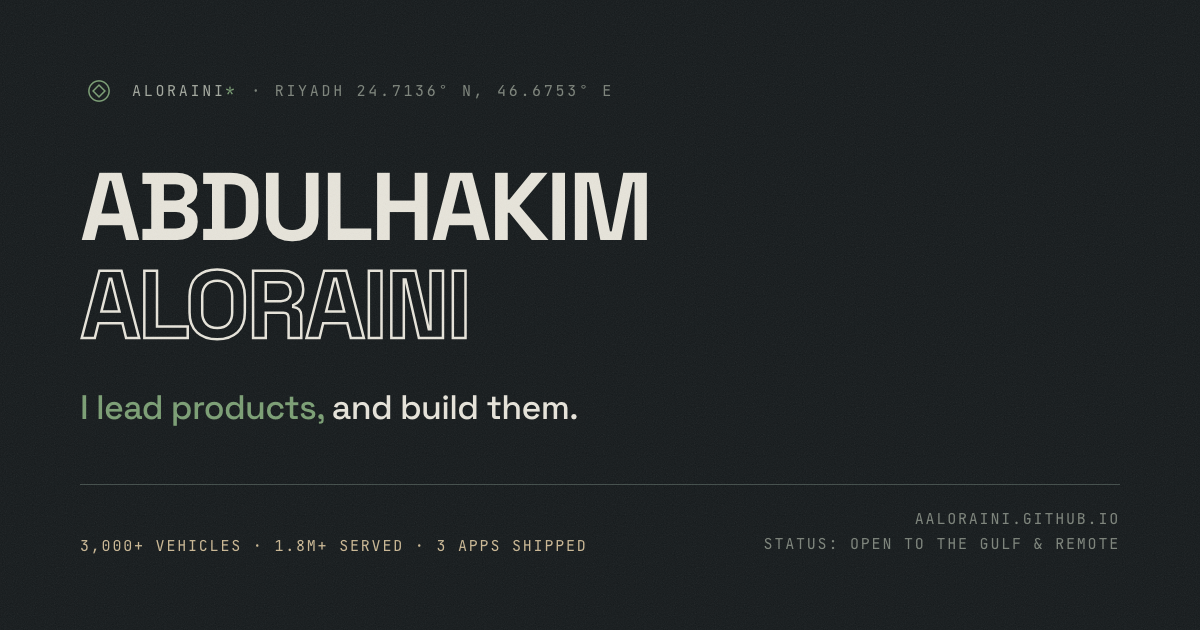
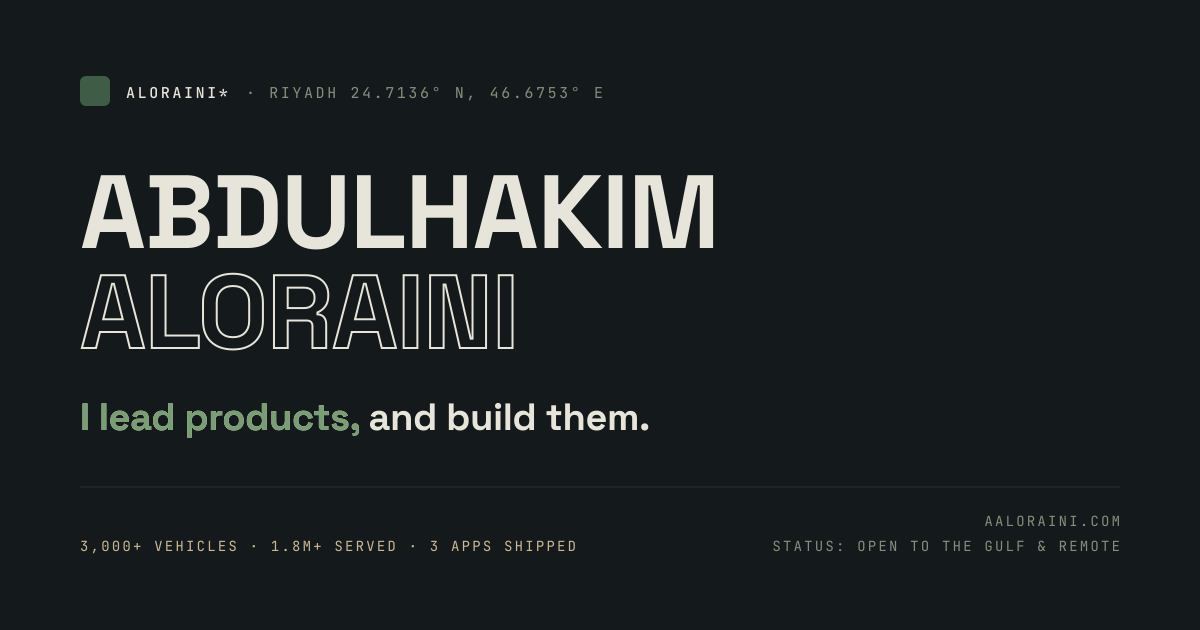
build(og): regenerate the OG card and script its generation
The card still carried the compass mark and read
AALORAINI.GITHUB.IO. It had gone stale precisely because it was an
opaque committed binary with no way to rebuild it, so this adds the
generator alongside the new image: npm run og.

Getting real type into it is not obvious, and all three ways of
getting it wrong fail the same silent way -- a clean PNG in the wrong
typeface, no error:

  - sharp rasterises through librsvg and pango, which match a font by
    family plus the OS/2 weight and cannot set a variable axis, so the
    site's variable woff2 have to be instanced to static TTFs.
  - Space Grotesk's variable default instance is Light, so its name
    table reports the family as "Space Grotesk Light" and a request
    for "Space Grotesk" matches nothing.
  - FONTCONFIG_FILE has to be in the environment before the process
    starts; assigning process.env is too late, because libvips reads
    it through a C runtime that copied the environment at startup.

generate.mjs therefore re-execs itself once with the variable set, and
asserts the display family really loaded by measuring I against M
before it renders. README.md in that folder writes all of this down.

Font preparation runs through uv, so fonttools is fetched on demand
and the repo gains no Python dependency. The generated TTFs are
gitignored.

diff --git a/scripts/og/prepare-fonts.py b/scripts/og/prepare-fonts.py
@@ -1,0 +1,104 @@
+"""Build static TTFs for the OG card renderer.
+
+The site loads Space Grotesk and JetBrains Mono as *variable* woff2 via
+Fontsource. The renderer in generate.mjs goes through sharp -> librsvg ->
+pango, which can only match a font by family name plus the weight recorded
+in OS/2 -- it cannot set a variable axis. Two things therefore have to
+happen before a glyph can be drawn:
+
+  1. Instance each variable font down to a single static weight.
+  2. Fix the name table. Space Grotesk's variable default instance is Light,
+     so its nameID 1 reads "Space Grotesk Light"; a request for the family
+     "Space Grotesk" silently matches nothing and the text falls back to
+     another font. This is quiet -- you get a rendered image with the wrong
+     typeface rather than an error -- so it is worth knowing about.
+
+Because two static weights of JetBrains Mono would otherwise collide on one
+family name, Medium is given its own family.
+
+Output lands in .fonts/ next to this file, which is gitignored: it is
+derived from node_modules and is rebuilt on demand.
+
+Run via scripts/og/README.md -- needs uv, no project dependency.
+"""
+
+from pathlib import Path
+
+from fontTools.ttLib import TTFont
+
+HERE = Path(__file__).parent
+REPO = HERE.parent.parent
+MODULES = REPO / "node_modules" / "@fontsource-variable"
+OUT = HERE / ".fonts"
+
+# source woff2 -> (output stem, family, style, wght axis / OS2 weight)
+JOBS = [
+    (
+        MODULES / "space-grotesk/files/space-grotesk-latin-wght-normal.woff2",
+        "SpaceGrotesk-Bold",
+        "Space Grotesk",
+        "Bold",
+        700,
+    ),
+    (
+        MODULES / "jetbrains-mono/files/jetbrains-mono-latin-wght-normal.woff2",
+        "JetBrainsMono-Regular",
+        "JetBrains Mono",
+        "Regular",
+        400,
+    ),
+    (
+        MODULES / "jetbrains-mono/files/jetbrains-mono-latin-wght-normal.woff2",
+        "JetBrainsMono-Medium",
+        "JetBrains Mono Medium",
+        "Regular",
+        500,
+    ),
+]
+
+
+def main() -> None:
+    missing = [str(src) for src, *_ in JOBS if not src.exists()]
+    if missing:
+        raise SystemExit(
+            "Fontsource files not found -- run `npm install` first:\n  "
+            + "\n  ".join(sorted(set(missing)))
+        )
+
+    OUT.mkdir(exist_ok=True)
+
+    for src, stem, family, style, weight in JOBS:
+        # fontTools reads woff2 directly when brotli is available, but it
+        # also remembers the flavor and would write woff2 straight back out
+        # under a .ttf name. fontconfig cannot read that, and the failure is
+        # silent -- every glyph quietly falls back. Clear the flavor so save()
+        # emits a real TTF.
+        font = TTFont(src)
+        font.flavor = None
+
+        from fontTools.varLib import instancer
+
+        instancer.instantiateVariableFont(font, {"wght": weight}, inplace=True)
+
+        name = font["name"]
+        full = family if style == "Regular" else f"{family} {style}"
+        postscript = full.replace(" ", "")
+
+        # Drop typographic names (16/17) so nothing overrides 1/2.
+        name.names = [r for r in name.names if r.nameID not in (16, 17)]
+        for plat_id, enc_id, lang_id in ((3, 1, 0x409), (1, 0, 0)):
+            name.setName(family, 1, plat_id, enc_id, lang_id)
+            name.setName(style, 2, plat_id, enc_id, lang_id)
+            name.setName(full, 4, plat_id, enc_id, lang_id)
+            name.setName(postscript, 6, plat_id, enc_id, lang_id)
+
+        font["OS/2"].usWeightClass = weight
+        font["head"].macStyle = 1 if style == "Bold" else 0
+
+        dest = OUT / f"{stem}.ttf"
+        font.save(dest)
+        print(f"  {dest.name:<26} family={family!r} style={style!r} weight={weight}")
+
+
+if __name__ == "__main__":
+    main()

diff --git a/scripts/og/README.md b/scripts/og/README.md
@@ -1,0 +1,64 @@
+# Open Graph card
+
+Regenerates `public/og.png`, the 1200x630 image every link preview shows
+(Twitter/X, LinkedIn, Slack, iMessage, WhatsApp).
+
+```sh
+npm run og
+```
+
+Then commit the changed `public/og.png`.
+
+## When to re-run
+
+Whenever something on the card stops being true. It drifts silently, because
+nothing in the build validates it:
+
+- the domain or status line
+- the headline stats (`3,000+ VEHICLES · 1.8M+ SERVED · 3 APPS SHIPPED`)
+- the mark or any design token in `src/styles/global.css`
+
+Copy and colours live at the top of `generate.mjs`.
+
+## How it works
+
+1. `prepare-fonts.py` turns the site's **variable** woff2 fonts (from
+   `node_modules/@fontsource-variable/...`) into **static** TTFs in
+   `.fonts/`, which is gitignored.
+2. `generate.mjs` draws the card as SVG and rasterises it with sharp.
+
+Step 1 is not optional. sharp rasterises through librsvg and pango, which
+match a font only by family name plus the weight in the `OS/2` table — they
+cannot set a variable axis. Two traps follow:
+
+- **A variable font renders at its default weight**, so Space Grotesk comes
+  out Light where the design needs Bold. Hence instancing.
+- **Space Grotesk's variable default instance is Light, so its name table
+  reports the family as `Space Grotesk Light`.** Asking for `Space Grotesk`
+  matches nothing, and the text silently falls back to another typeface —
+  you get a perfectly valid PNG with the wrong font in it, and no warning.
+  Hence the renaming.
+
+For the same reason JetBrains Mono Medium is registered as its own family:
+two static weights cannot share one family name through fontconfig here.
+
+A third trap is ordering: `FONTCONFIG_FILE` must already be in the
+environment when the process starts. Setting `process.env` in the script
+does not work — libvips reads the variable through the C runtime as sharp
+loads, and on Windows that runtime uses a copy of the environment taken at
+process start. `generate.mjs` therefore re-execs itself once with the
+variable set.
+
+Every one of these fails the same way: a clean PNG in the wrong typeface,
+no error. `generate.mjs` guards against it by measuring `I` against `M` in
+the display family before rendering — equal widths mean a monospace
+fallback is in use, and the script stops. If you change fonts, keep that
+check honest.
+
+## Requirements
+
+- `npm install` (for the Fontsource packages and sharp)
+- [`uv`](https://docs.astral.sh/uv/) on `PATH` — it fetches fonttools on
+  demand, so there is no Python dependency in the repo
+
+`npm run og` runs both steps.
